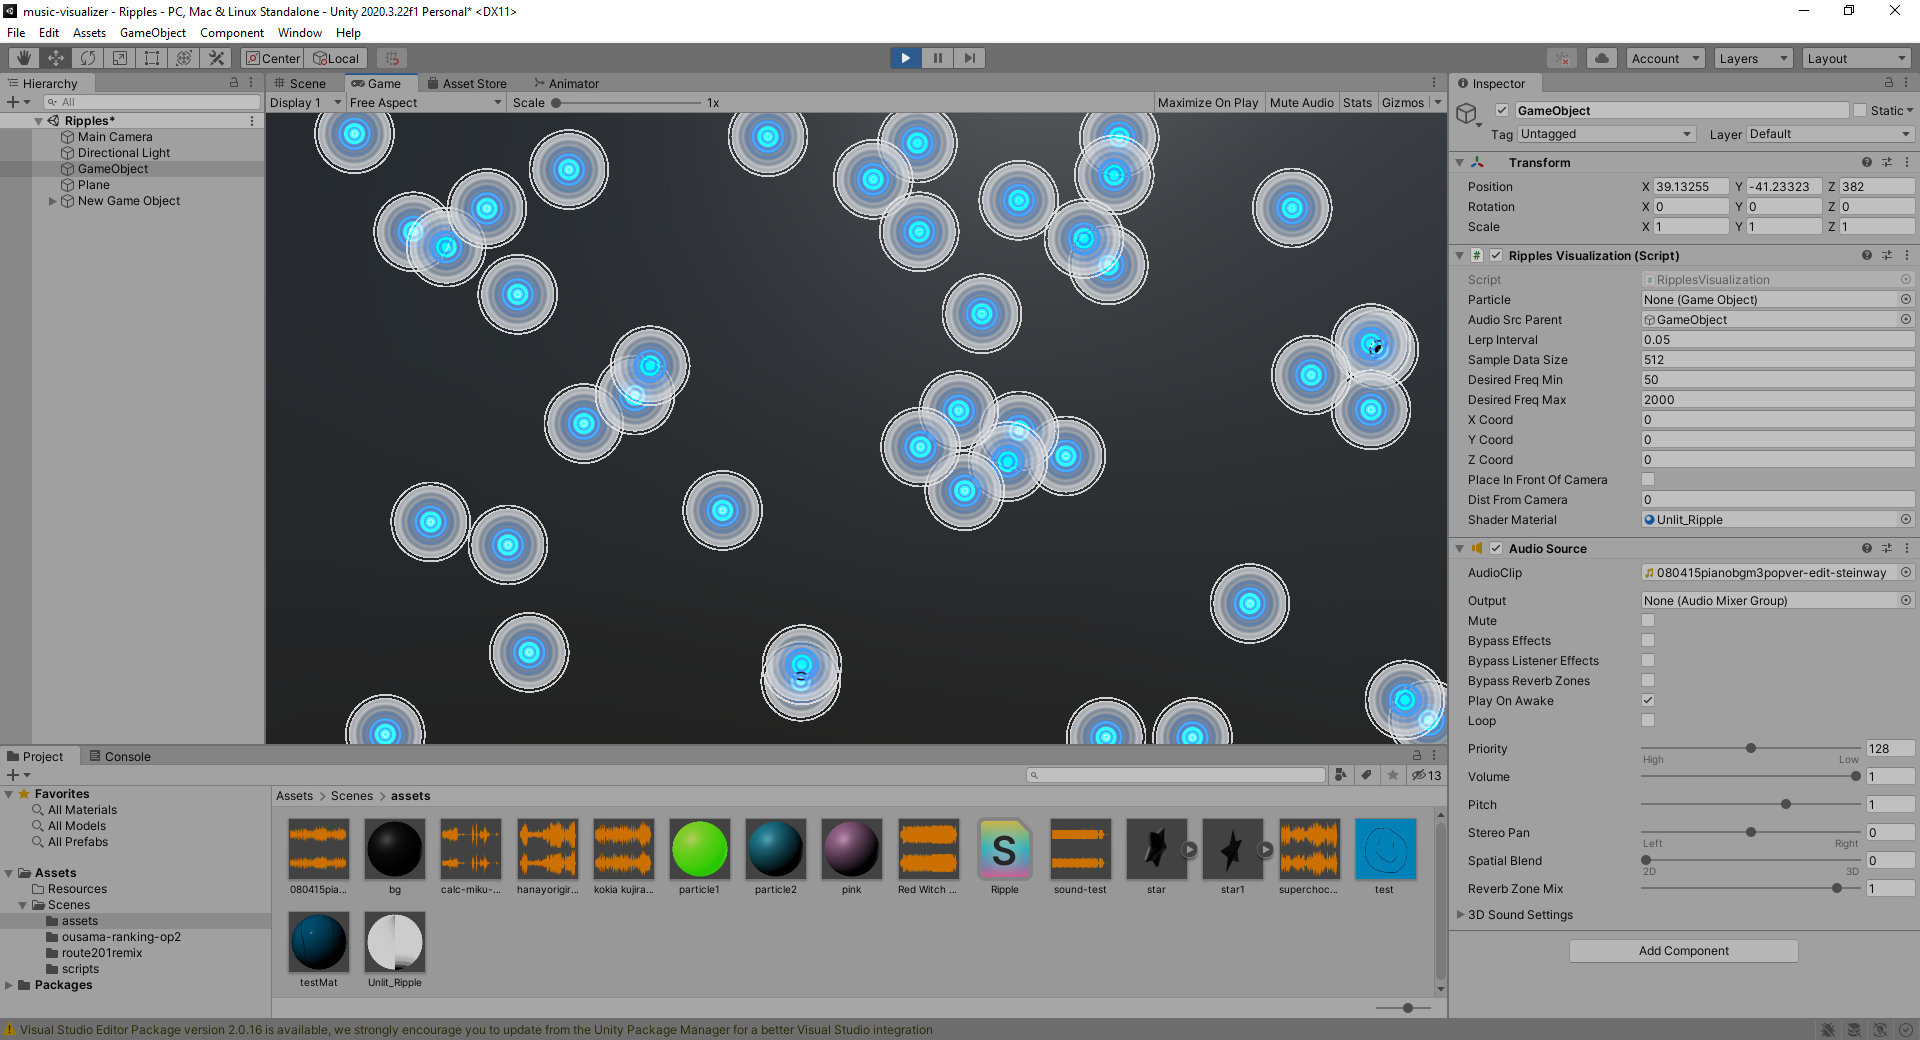
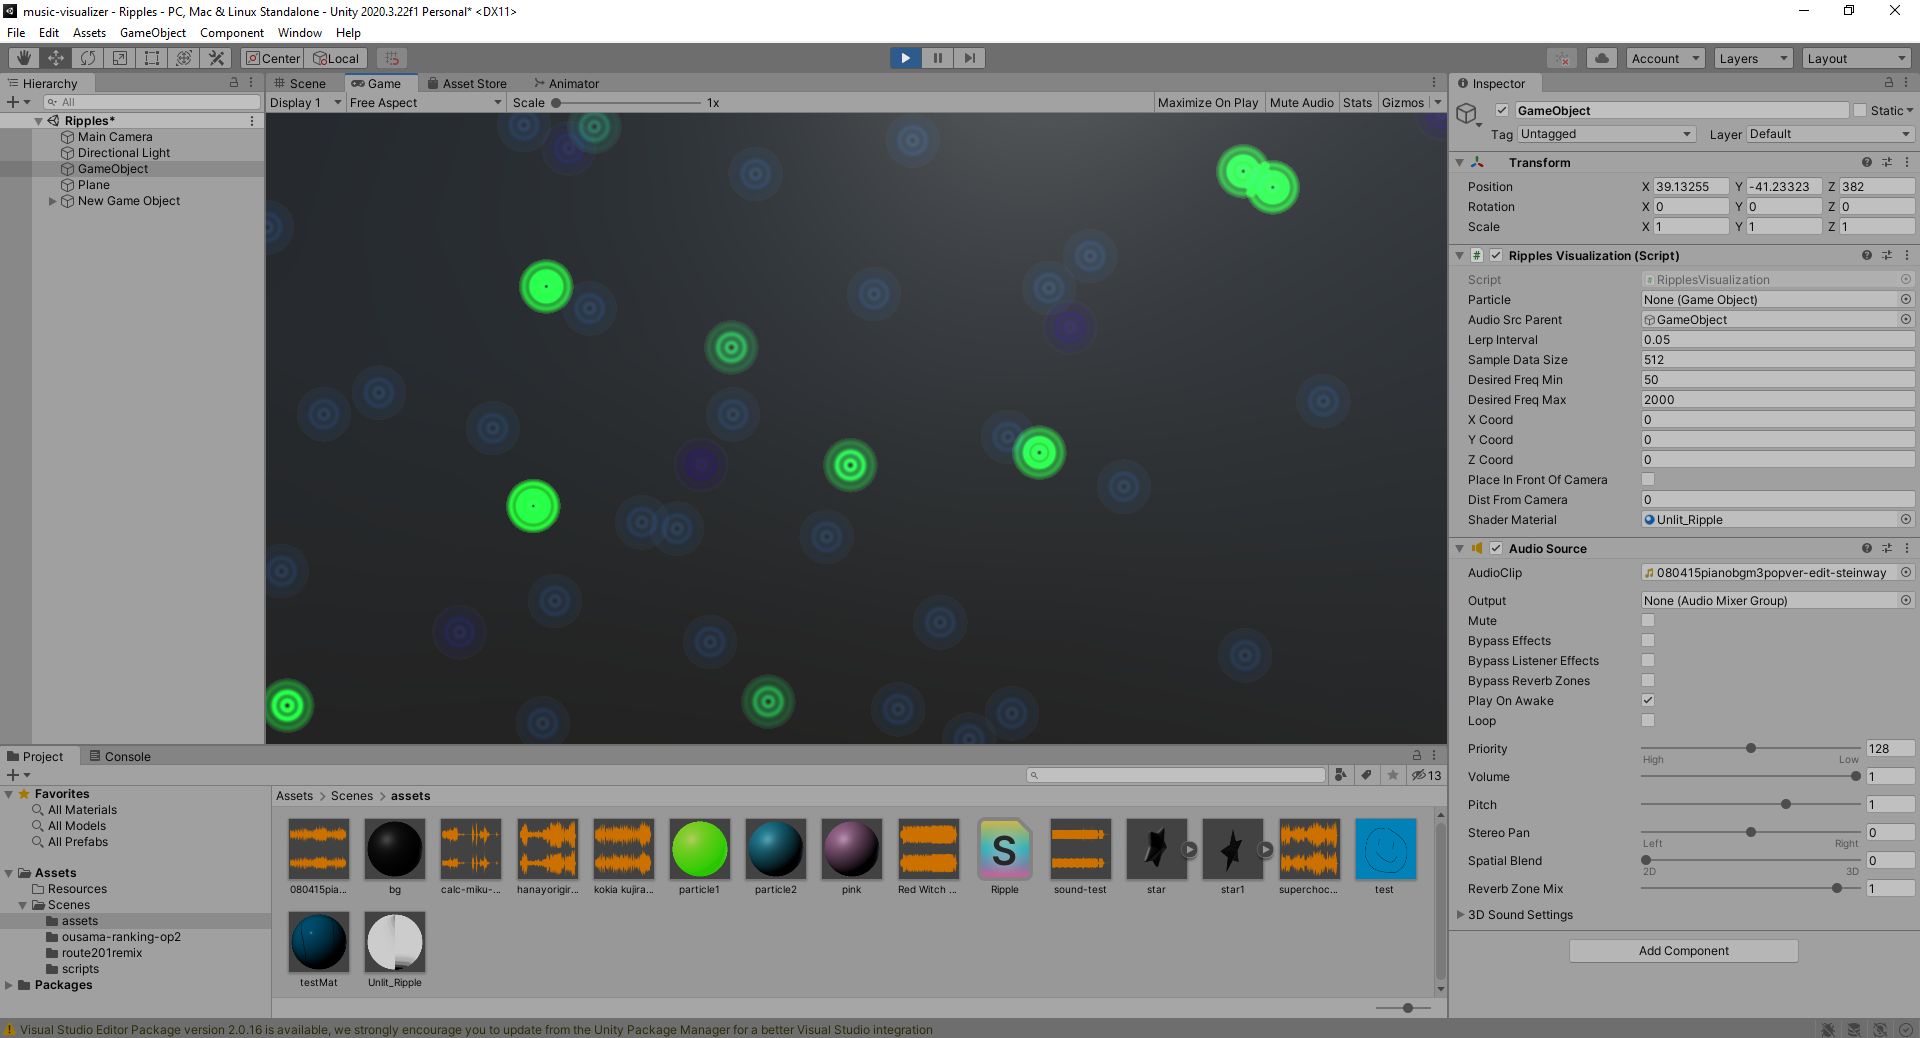
bit more progress

diff --git a/Assets/Scenes/scripts/RipplesVisualization.cs b/Assets/Scenes/scripts/RipplesVisualization.cs
@@ -13,6 +13,10 @@ public class RipplesVisualization : VisualizerMultiple
     private float[] spectrumData;
     private float[] prevSpectrumData;   // keep track of previous spectrum data
     private GameObject parent;
+
+    private float timeInterval = 0.1f; // wait n sec before updating visualization
+    private float timeElapsed = 0f;
+    private bool started = false;
     private void setupSpectrumDataPoints()
     {
         int sampleRate = AudioSettings.outputSampleRate;
@@ -24,11 +28,15 @@ public class RipplesVisualization : VisualizerMultiple
         int numFreqBands = targetIndexMax - targetIndexMin;
 
         // assign random locations to each sphere representing a freq bin
+        //float xInterval = 1f/numFreqBands + 0.01f;
+        //float xStart = 0f;
         for(int i = 0; i < numFreqBands; i++)
         {
             float yPos = UnityEngine.Random.Range(0f, 1f);
             float xPos = UnityEngine.Random.Range(0f, 1f);
-            float zPos = 55f;
+            float zPos = 60f;
+
+            //xStart += xInterval;
 
             Vector3 newPos = Camera.main.ViewportToWorldPoint(new Vector3(xPos, yPos, zPos));
 
@@ -39,9 +47,9 @@ public class RipplesVisualization : VisualizerMultiple
             newRipple.transform.parent = parent.transform;
 
             newRipple.GetComponent<Renderer>().material = shaderMaterial;
-            newRipple.GetComponent<Renderer>().material.SetFloat("_Speed", 1.8f);
-            newRipple.GetComponent<Renderer>().material.SetFloat("_Density", 100f);
-            newRipple.GetComponent<Renderer>().material.SetFloat("_Strength", 1.2f);
+            newRipple.GetComponent<Renderer>().material.SetFloat("_Speed", 1.1f);
+            newRipple.GetComponent<Renderer>().material.SetFloat("_Density", 60f);
+            newRipple.GetComponent<Renderer>().material.SetFloat("_Strength", 2f);
             newRipple.GetComponent<Renderer>().material.SetFloat("_Brightness", 1f);
             newRipple.GetComponent<Renderer>().material.SetVector("color", new Vector4(0.3f, 0.6f, 1, 0.8f));
             newRipple.GetComponent<Renderer>().material.SetVector("center", new Vector2(0.5f, 0.5f));
@@ -92,7 +100,14 @@ public class RipplesVisualization : VisualizerMultiple
 
     void Update()
     {
-        audioSrc.GetSpectrumData(spectrumData, 0, FFTWindow.BlackmanHarris);
-        displaySpectrum(spectrumData);
+        if (timeElapsed >= timeInterval || !started)
+        {
+            audioSrc.GetSpectrumData(spectrumData, 0, FFTWindow.BlackmanHarris);
+            displaySpectrum(spectrumData);
+            timeElapsed = 0f;
+            started = true;
+        }
+
+        timeElapsed += Time.deltaTime;
     }
 }
